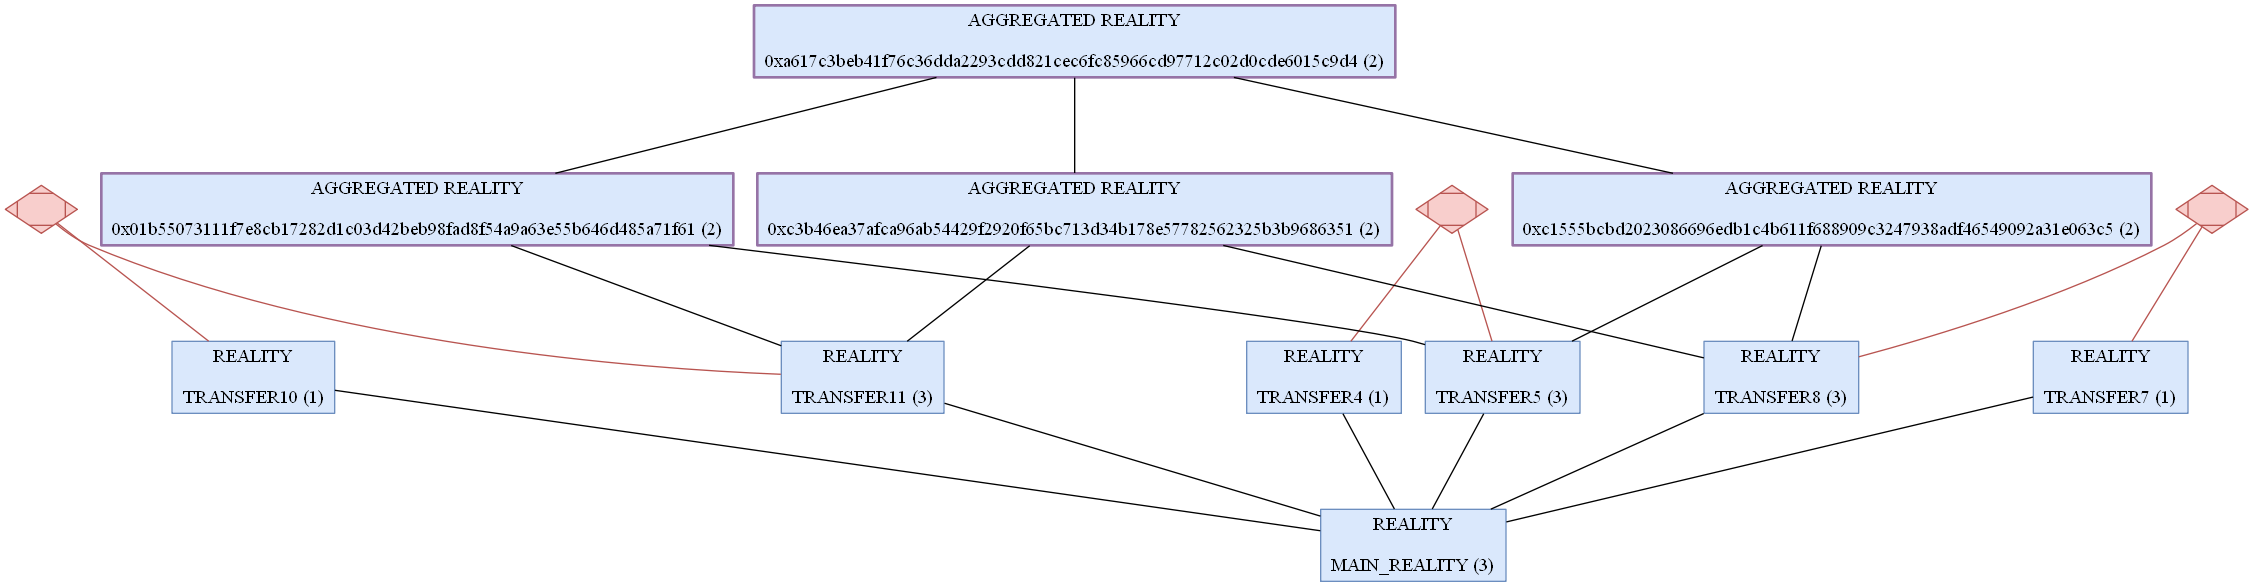
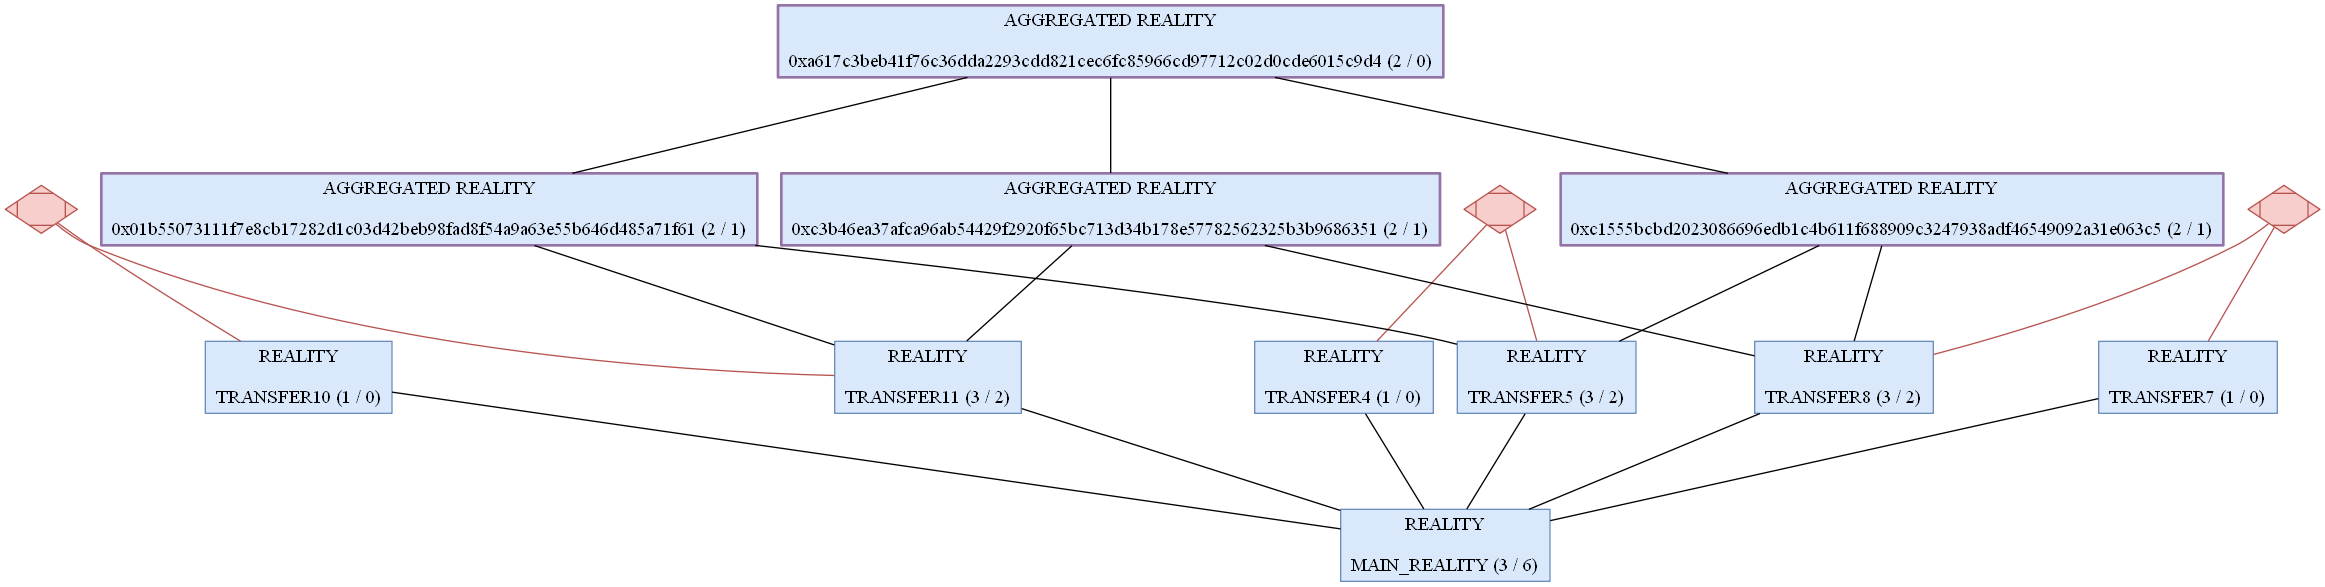
Feat: unused realities get cleaned up

diff --git a/packages/ledgerstate/reality.go b/packages/ledgerstate/reality.go
@@ -33,6 +33,7 @@ func newReality(id RealityId, parentRealities ...RealityId) *Reality {
 	result := &Reality{
 		id:               id,
 		parentRealityIds: NewRealityIdSet(parentRealities...),
+		subRealityIds:    NewRealityIdSet(),
 		conflictIds:      NewConflictIdSet(),
 
 		storageKey: make([]byte, len(id)),
@@ -57,7 +58,7 @@ func (reality *Reality) GetParentRealityIds() (realityIdSet RealityIdSet) {
 }
 
 // Adds a new parent Reality to this Reality (it is used for aggregating aggregated Realities).
-func (reality *Reality) AddParentReality(realityId RealityId) {
+func (reality *Reality) AddParentReality(realityId RealityId) (realityAdded bool) {
 	reality.parentRealityIdsMutex.RLock()
 	if _, exists := reality.parentRealityIds[realityId]; !exists {
 		reality.parentRealityIdsMutex.RUnlock()
@@ -67,11 +68,15 @@ func (reality *Reality) AddParentReality(realityId RealityId) {
 			reality.parentRealityIds[realityId] = void
 
 			reality.SetModified()
+
+			realityAdded = true
 		}
 		reality.parentRealityIdsMutex.Unlock()
 	} else {
 		reality.parentRealityIdsMutex.RUnlock()
 	}
+
+	return
 }
 
 // Utility function that replaces the parent of a reality.
@@ -240,6 +245,8 @@ func (reality *Reality) AddConflict(conflictSetId ConflictId) {
 func (reality *Reality) CreateReality(id RealityId) *objectstorage.CachedObject {
 	newReality := newReality(id, reality.id)
 	newReality.ledgerState = reality.ledgerState
+
+	reality.RegisterSubReality(id)
 
 	return reality.ledgerState.realities.Store(newReality)
 }
@@ -442,6 +449,8 @@ func (reality *Reality) createRealityForPreviouslyUnconflictingConsumers(consume
 			newReality := newReality(elevatedRealityId, reality.id)
 			newReality.ledgerState = reality.ledgerState
 
+			reality.RegisterSubReality(elevatedRealityId)
+
 			newReality.Persist()
 			newReality.SetModified()
 
@@ -518,10 +527,27 @@ func (reality *Reality) elevateTransferOutputOfCurrentReality(transferOutput *Tr
 
 // endregion ///////////////////////////////////////////////////////////////////////////////////////////////////////////
 
+func (reality *Reality) UnregisterSubReality(realityId RealityId) {
+	reality.subRealityIdsMutex.RLock()
+	if _, subRealityIdExists := reality.subRealityIds[realityId]; subRealityIdExists {
+		reality.subRealityIdsMutex.RUnlock()
+
+		reality.subRealityIdsMutex.Lock()
+		if _, subRealityIdExists := reality.subRealityIds[realityId]; subRealityIdExists {
+			delete(reality.subRealityIds, realityId)
+
+			reality.SetModified()
+		}
+		reality.subRealityIdsMutex.Unlock()
+	} else {
+		reality.subRealityIdsMutex.RUnlock()
+	}
+}
+
 func (reality *Reality) RegisterSubReality(realityId RealityId) {
 	reality.subRealityIdsMutex.RLock()
 	if _, subRealityIdExists := reality.subRealityIds[realityId]; !subRealityIdExists {
-		reality.subRealityIdsMutex.RLock()
+		reality.subRealityIdsMutex.RUnlock()
 
 		reality.subRealityIdsMutex.Lock()
 		if _, subRealityIdExists := reality.subRealityIds[realityId]; !subRealityIdExists {
@@ -572,9 +598,16 @@ func (reality *Reality) bookTransferOutput(transferOutput *TransferOutput) (err 
 			transferOutput.SetRealityId(realityId)
 
 			reality.ledgerState.GetReality(transferOutputRealityId).Consume(func(object objectstorage.StorableObject) {
+				transferOutputReality := object.(*Reality)
+
 				// decrease transferOutputCount and remove reality if it is empty
-				if object.(*Reality).DecreaseTransferOutputCount() == 0 {
-					// delete reality if empty
+				if transferOutputReality.DecreaseTransferOutputCount() == 0 && len(transferOutputReality.subRealityIds) == 0 {
+					for parentRealityId := range transferOutputReality.parentRealityIds {
+						reality.ledgerState.GetReality(parentRealityId).Consume(func(obj objectstorage.StorableObject) {
+							obj.(*Reality).UnregisterSubReality(transferOutputRealityId)
+						})
+					}
+					transferOutputReality.Delete()
 				}
 			})
 

diff --git a/packages/ledgerstate/ledgerstate.go b/packages/ledgerstate/ledgerstate.go
@@ -125,6 +125,14 @@ func (ledgerState *LedgerState) CreateReality(id RealityId) {
 	newReality := newReality(id, MAIN_REALITY_ID)
 	newReality.ledgerState = ledgerState
 
+	if mainReality, mainRealityErr := ledgerState.realities.Load(MAIN_REALITY_ID[:]); mainRealityErr != nil {
+		panic(mainRealityErr)
+	} else {
+		mainReality.Consume(func(object objectstorage.StorableObject) {
+			object.(*Reality).RegisterSubReality(id)
+		})
+	}
+
 	ledgerState.realities.Store(newReality).Release()
 }
 
@@ -182,14 +190,14 @@ func (ledgerState *LedgerState) GenerateRealityVisualization(pngFilename string)
 		realityNode, exists := realityNodes[reality.id]
 		if !exists {
 			if reality.IsAggregated() {
-				realityNode = graph.Node("AGGREGATED REALITY\n\n" + strings.Trim(reality.id.String(), "\x00") + " (" + strconv.Itoa(int(reality.GetTransferOutputCount())) + ")")
+				realityNode = graph.Node("AGGREGATED REALITY\n\n" + strings.Trim(reality.id.String(), "\x00") + " (" + strconv.Itoa(int(reality.GetTransferOutputCount())) + " / " + strconv.Itoa(len(reality.subRealityIds)) + ")")
 				realityNode.Attr("style", "filled")
 				realityNode.Attr("shape", "rect")
 				realityNode.Attr("color", "#9673A6")
 				realityNode.Attr("fillcolor", "#DAE8FC")
 				realityNode.Attr("penwidth", "2.0")
 			} else {
-				realityNode = graph.Node("REALITY\n\n" + strings.Trim(reality.id.String(), "\x00") + " (" + strconv.Itoa(int(reality.GetTransferOutputCount())) + ")")
+				realityNode = graph.Node("REALITY\n\n" + strings.Trim(reality.id.String(), "\x00") + " (" + strconv.Itoa(int(reality.GetTransferOutputCount())) + " / " + strconv.Itoa(len(reality.subRealityIds)) + ")")
 				realityNode.Attr("style", "filled")
 				realityNode.Attr("shape", "rect")
 				realityNode.Attr("color", "#6C8EBF")
@@ -319,9 +327,15 @@ func (ledgerState *LedgerState) AggregateRealities(realityIds ...RealityId) *obj
 		aggregatedRealityId := ledgerState.generateAggregatedRealityId(ledgerState.sortRealityIds(parentConflictRealities))
 
 		newAggregatedRealityCreated := false
-		if cachedAggregatedReality, err := ledgerState.realities.ComputeIfAbsent(aggregatedRealityId[:], func(key []byte) (object objectstorage.StorableObject, e error) {
+		if newCachedAggregatedReality, err := ledgerState.realities.ComputeIfAbsent(aggregatedRealityId[:], func(key []byte) (object objectstorage.StorableObject, e error) {
 			aggregatedReality := newReality(aggregatedRealityId, aggregatedRealityParentIds...)
 			aggregatedReality.ledgerState = ledgerState
+
+			for _, parentRealityId := range aggregatedRealityParentIds {
+				ledgerState.GetReality(parentRealityId).Consume(func(object objectstorage.StorableObject) {
+					object.(*Reality).RegisterSubReality(aggregatedRealityId)
+				})
+			}
 
 			aggregatedReality.SetModified()
 
@@ -332,14 +346,18 @@ func (ledgerState *LedgerState) AggregateRealities(realityIds ...RealityId) *obj
 			panic(err)
 		} else {
 			if !newAggregatedRealityCreated {
-				aggregatedReality := cachedAggregatedReality.Get().(*Reality)
+				aggregatedReality := newCachedAggregatedReality.Get().(*Reality)
 
 				for _, realityId := range aggregatedRealityParentIds {
-					aggregatedReality.AddParentReality(realityId)
+					if aggregatedReality.AddParentReality(realityId) {
+						ledgerState.GetReality(realityId).Consume(func(object objectstorage.StorableObject) {
+							object.(*Reality).RegisterSubReality(aggregatedRealityId)
+						})
+					}
 				}
 			}
 
-			return cachedAggregatedReality
+			return newCachedAggregatedReality
 		}
 	}
 }

diff --git a/packages/ledgerstate/reality.objectstorage.go b/packages/ledgerstate/reality.objectstorage.go
@@ -24,17 +24,29 @@ func (reality *Reality) MarshalBinary() ([]byte, error) {
 	reality.parentRealityIdsMutex.RLock()
 
 	parentRealityCount := len(reality.parentRealityIds)
+	subRealityCount := len(reality.subRealityIds)
 
-	marshaledReality := make([]byte, 4+4+parentRealityCount*realityIdLength)
+	marshaledReality := make([]byte, 4+4+4+parentRealityCount*realityIdLength+subRealityCount*realityIdLength)
+
+	offset := 0
 
 	binary.LittleEndian.PutUint32(marshaledReality, uint32(reality.GetTransferOutputCount()))
+	offset += 4
 
-	binary.LittleEndian.PutUint32(marshaledReality[4:], uint32(parentRealityCount))
-	i := 0
+	binary.LittleEndian.PutUint32(marshaledReality[offset:], uint32(parentRealityCount))
+	offset += 4
 	for parentRealityId := range reality.parentRealityIds {
-		copy(marshaledReality[4+4+i*realityIdLength:], parentRealityId[:])
+		copy(marshaledReality[offset:], parentRealityId[:])
 
-		i++
+		offset += realityIdLength
+	}
+
+	binary.LittleEndian.PutUint32(marshaledReality[offset:], uint32(subRealityCount))
+	offset += 4
+	for subRealityId := range reality.subRealityIds {
+		copy(marshaledReality[offset:], subRealityId[:])
+
+		offset += realityIdLength
 	}
 
 	reality.parentRealityIdsMutex.RUnlock()
@@ -48,17 +60,37 @@ func (reality *Reality) UnmarshalBinary(serializedObject []byte) error {
 	}
 
 	reality.parentRealityIds = NewRealityIdSet()
+	reality.subRealityIds = NewRealityIdSet()
+
+	offset := 0
 
 	reality.transferOutputCount = binary.LittleEndian.Uint32(serializedObject)
+	offset += 4
 
-	parentRealityCount := int(binary.LittleEndian.Uint32(serializedObject[4:]))
+	parentRealityCount := int(binary.LittleEndian.Uint32(serializedObject[offset:]))
+	offset += 4
+
 	for i := 0; i < parentRealityCount; i++ {
 		var restoredRealityId RealityId
-		if err := restoredRealityId.UnmarshalBinary(serializedObject[4+4+i*realityIdLength:]); err != nil {
+		if err := restoredRealityId.UnmarshalBinary(serializedObject[offset:]); err != nil {
 			return err
 		}
+		offset += realityIdLength
 
 		reality.parentRealityIds[restoredRealityId] = void
+	}
+
+	subRealityCount := int(binary.LittleEndian.Uint32(serializedObject[offset:]))
+	offset += 4
+
+	for i := 0; i < subRealityCount; i++ {
+		var restoredRealityId RealityId
+		if err := restoredRealityId.UnmarshalBinary(serializedObject[offset:]); err != nil {
+			return err
+		}
+		offset += realityIdLength
+
+		reality.subRealityIds[restoredRealityId] = void
 	}
 
 	return nil

diff --git a/packages/ledgerstate/ledgerstate_test.go b/packages/ledgerstate/ledgerstate_test.go
@@ -6,9 +6,8 @@ import (
 	"testing"
 	"time"
 
-	"github.com/iotaledger/hive.go/parameter"
-
 	"github.com/iotaledger/hive.go/objectstorage"
+	"github.com/iotaledger/hive.go/parameter"
 )
 
 var (
@@ -237,7 +236,7 @@ func TestAggregateAggregatedRealities(t *testing.T) {
 
 	objectstorage.WaitForWritesToFlush()
 
-	ledgerState.GenerateRealityVisualization("realities1.png")
+	fmt.Println(ledgerState.GenerateRealityVisualization("realities1.png"))
 	NewVisualizer(ledgerState).RenderTransferOutputs("outputs1.png")
 
 	multiSpend(ledgerState, 2, outputs0[0], outputs1[0])
